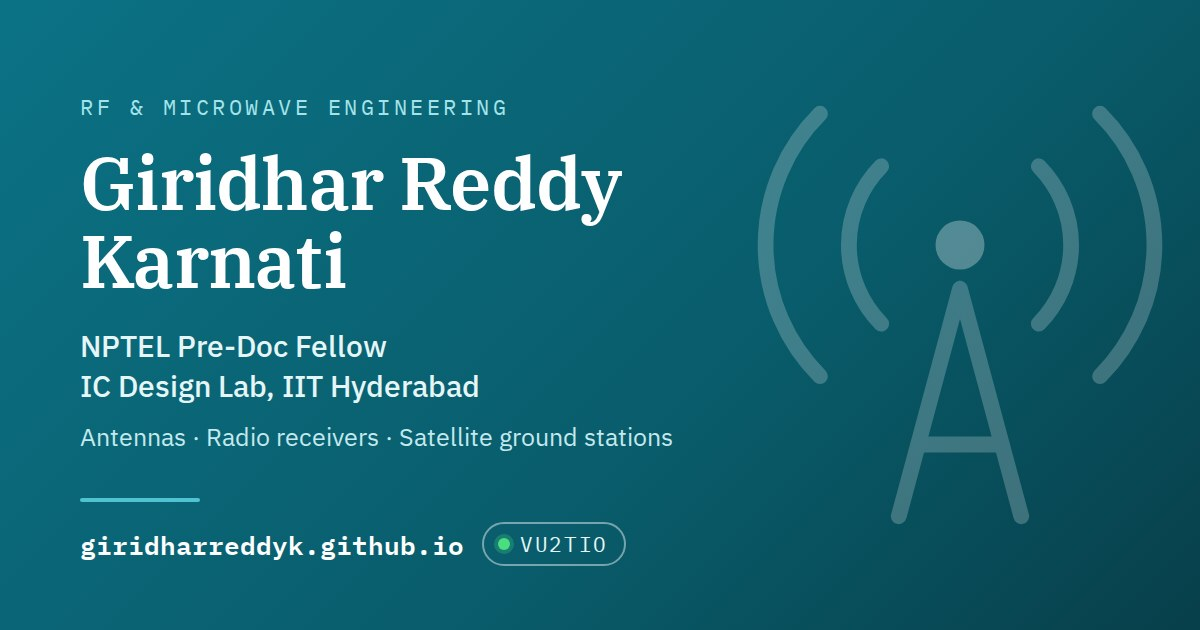
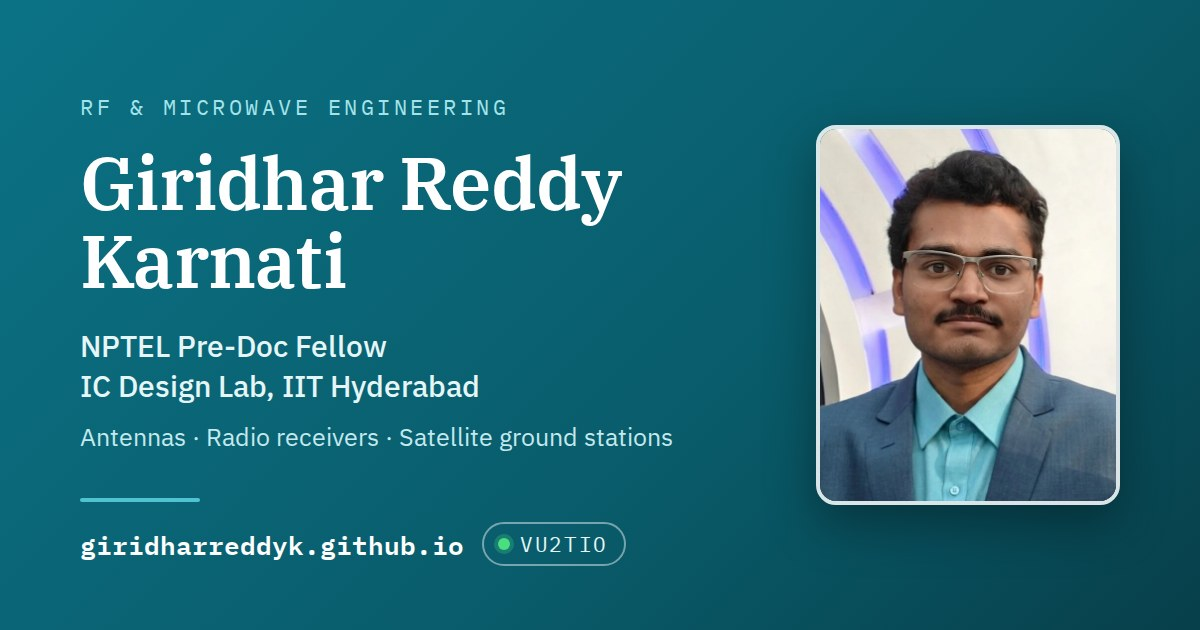
Add profile photo and show it on the link-preview card
- assets/img/profile.jpg: 4:5 head-and-shoulders crop of the photo,
  600x750 JPEG with metadata stripped; replaces the placeholder on the
  home page (the placeholder stays as a fallback)
- og-card.jpg: photo in place of the antenna motif
- og:image:alt, photo comment and README updated

Claude-Session: https://claude.ai/code/session_011Jq42SscDd4Bx82T14GS4k

Changed region(s): [[0.6167, 0.1508, 0.9867, 0.8444]]

diff --git a/index.html b/index.html
@@ -20,7 +20,7 @@
     <meta property="og:image" content="https://giridharreddyk.github.io/assets/img/og-card.jpg" />
     <meta property="og:image:width" content="1200" />
     <meta property="og:image:height" content="630" />
-    <meta property="og:image:alt" content="Giridhar Reddy Karnati: RF and microwave, antennas, radio receivers, satellite ground stations" />
+    <meta property="og:image:alt" content="Giridhar Reddy Karnati: photo, name, role and research areas" />
     <meta name="twitter:card" content="summary_large_image" />
     <meta name="theme-color" content="#0b7285" />
 
@@ -124,8 +124,8 @@
             </p>
           </div>
           <figure class="hero-photo">
-            <!-- Put your photo at assets/img/profile.jpg (portrait, about 800×1000 px).
-                 Until then the placeholder below is shown automatically. -->
+            <!-- Photo: assets/img/profile.jpg (4:5 portrait, 600×750 px).
+                 If the file is missing, the placeholder below is shown automatically. -->
             <img
               src="assets/img/profile.jpg"
               alt="Portrait of Giridhar Reddy Karnati"

diff --git a/cv.html b/cv.html
@@ -20,7 +20,7 @@
     <meta property="og:image" content="https://giridharreddyk.github.io/assets/img/og-card.jpg" />
     <meta property="og:image:width" content="1200" />
     <meta property="og:image:height" content="630" />
-    <meta property="og:image:alt" content="Giridhar Reddy Karnati: RF and microwave, antennas, radio receivers, satellite ground stations" />
+    <meta property="og:image:alt" content="Giridhar Reddy Karnati: photo, name, role and research areas" />
     <meta name="twitter:card" content="summary_large_image" />
     <meta name="theme-color" content="#0b7285" />
 

diff --git a/projects.html b/projects.html
@@ -20,7 +20,7 @@
     <meta property="og:image" content="https://giridharreddyk.github.io/assets/img/og-card.jpg" />
     <meta property="og:image:width" content="1200" />
     <meta property="og:image:height" content="630" />
-    <meta property="og:image:alt" content="Giridhar Reddy Karnati: RF and microwave, antennas, radio receivers, satellite ground stations" />
+    <meta property="og:image:alt" content="Giridhar Reddy Karnati: photo, name, role and research areas" />
     <meta name="twitter:card" content="summary_large_image" />
     <meta name="theme-color" content="#0b7285" />
 

diff --git a/publications.html b/publications.html
@@ -20,7 +20,7 @@
     <meta property="og:image" content="https://giridharreddyk.github.io/assets/img/og-card.jpg" />
     <meta property="og:image:width" content="1200" />
     <meta property="og:image:height" content="630" />
-    <meta property="og:image:alt" content="Giridhar Reddy Karnati: RF and microwave, antennas, radio receivers, satellite ground stations" />
+    <meta property="og:image:alt" content="Giridhar Reddy Karnati: photo, name, role and research areas" />
     <meta name="twitter:card" content="summary_large_image" />
     <meta name="theme-color" content="#0b7285" />
 

diff --git a/README.md b/README.md
@@ -23,8 +23,8 @@ giridharreddyk.github.io/
     ├── img/
     │   ├── favicon.svg              Browser-tab icon (antenna mast)
     │   ├── og-card.jpg              Preview image shown when a page is shared (LinkedIn, WhatsApp, X)
-    │   ├── profile-placeholder.svg  Shown until you add profile.jpg
-    │   ├── profile.jpg              ← YOU ADD THIS (your photo)
+    │   ├── profile-placeholder.svg  Shown only if profile.jpg is missing
+    │   ├── profile.jpg              Your photo (4:5 portrait, 600×750 px)
     │   └── projects/                Figures shown on project cards (from your reports)
     └── pdf/
         └── Giridhar_Reddy_Karnati_CV.pdf   Printed from cv.html (no phone number)
@@ -47,7 +47,6 @@ Then visit <http://localhost:8000>.
 What's left is marked `TODO` in HTML comments (VS Code: **Ctrl+Shift+F** → search `TODO`).
 None of it shows on the live site.
 
-- [ ] **Photo**: save as `assets/img/profile.jpg` (portrait, about 800×1000 px, under 300 KB)
 - [ ] **IEEE paper**: check the author order and paste the official BibTeX and abstract
       (IEEE Xplore → _Cite This_ → _BibTeX_) in `publications.html`
 - [ ] **Final CGPA** (`cv.html` shows 9.23 as of May 2026)
@@ -90,6 +89,7 @@ You can edit straight on GitHub: open a file → pencil icon → change → **Co
 | Add a project           | `projects.html` → copy a `<li class="card">`; set `data-category` to one or more of `rf radio ic fab digital`                   |
 | Add a project image     | Put the image in `assets/img/projects/` and add `<figure class="card-figure"><img src="..." alt="..." /></figure>` as the first line of the card |
 | Add an award or membership | `cv.html` → copy an `<li class="entry">` in the right section (newest first)                                                 |
+| Change your photo       | Replace `assets/img/profile.jpg` with a 4:5 portrait (e.g. 600×750 px, under 300 KB), keeping the same file name |
 | Change the accent color | `assets/css/style.css` → change `--accent` (and `--accent-strong`, `--accent-soft`) in **all three** colour blocks at the top  |
 | Add a new page          | Copy `cv.html`, rename it, replace the content, then add a link to it in the `<ul class="nav-links">` of **every** page          |
 
